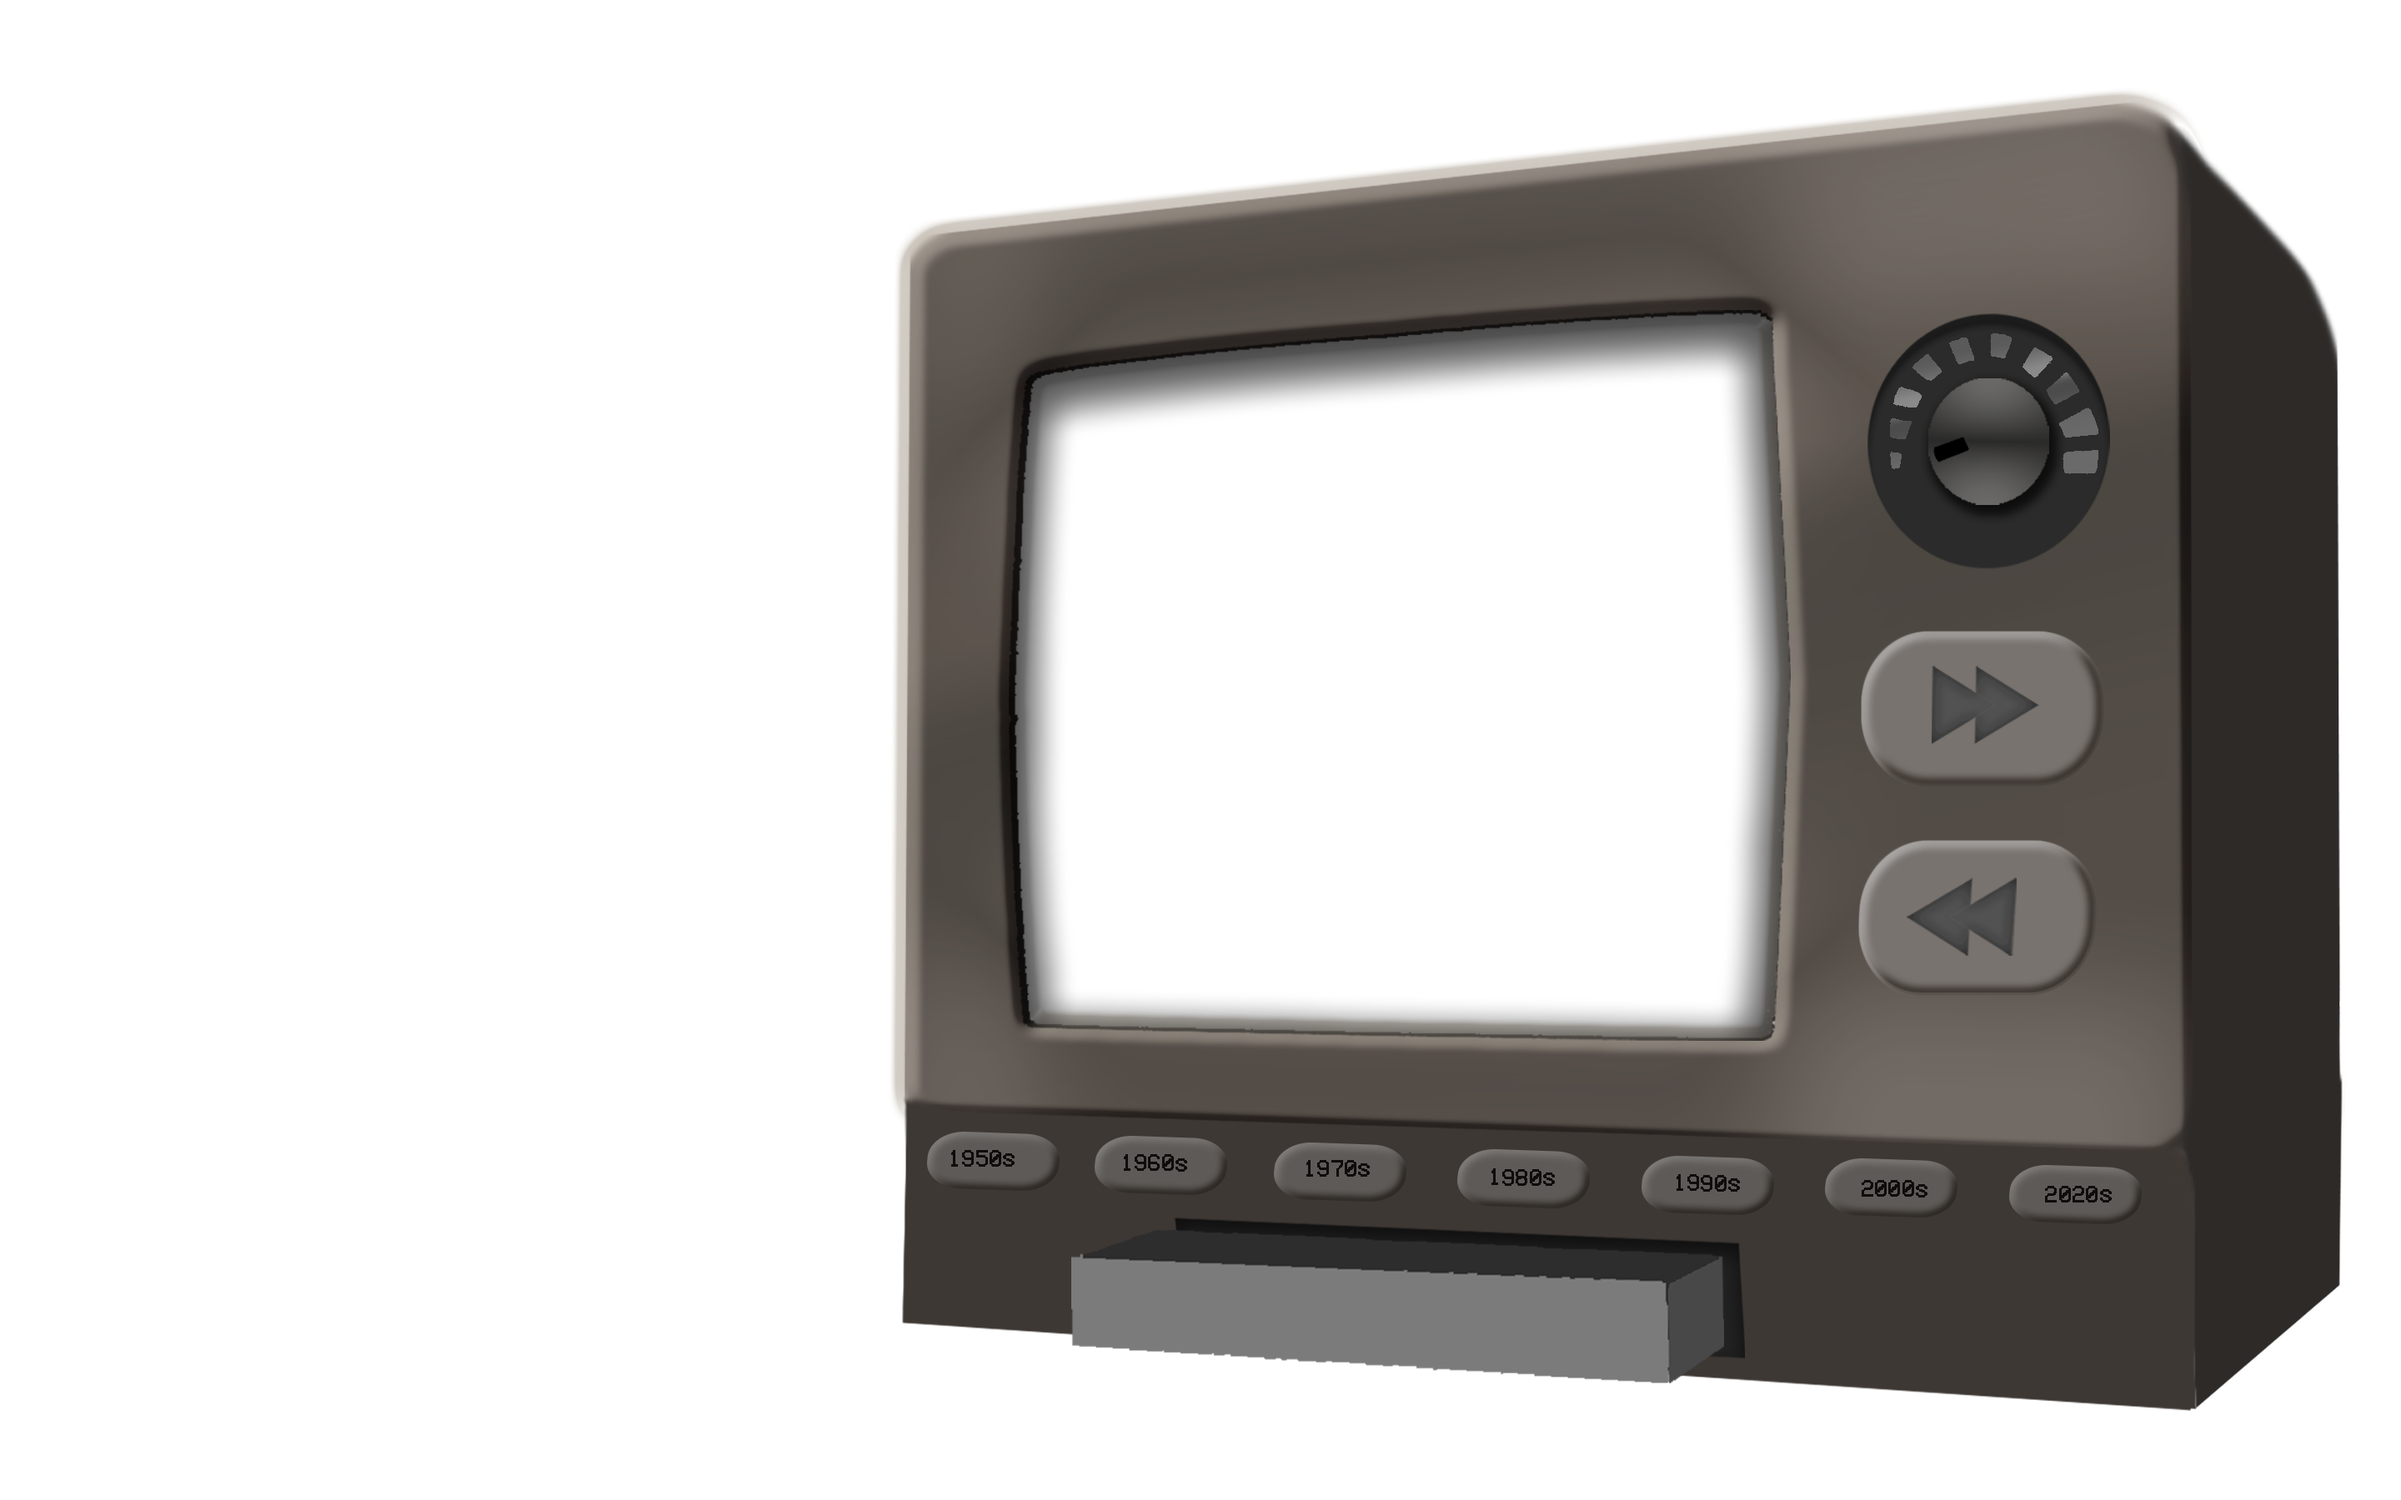
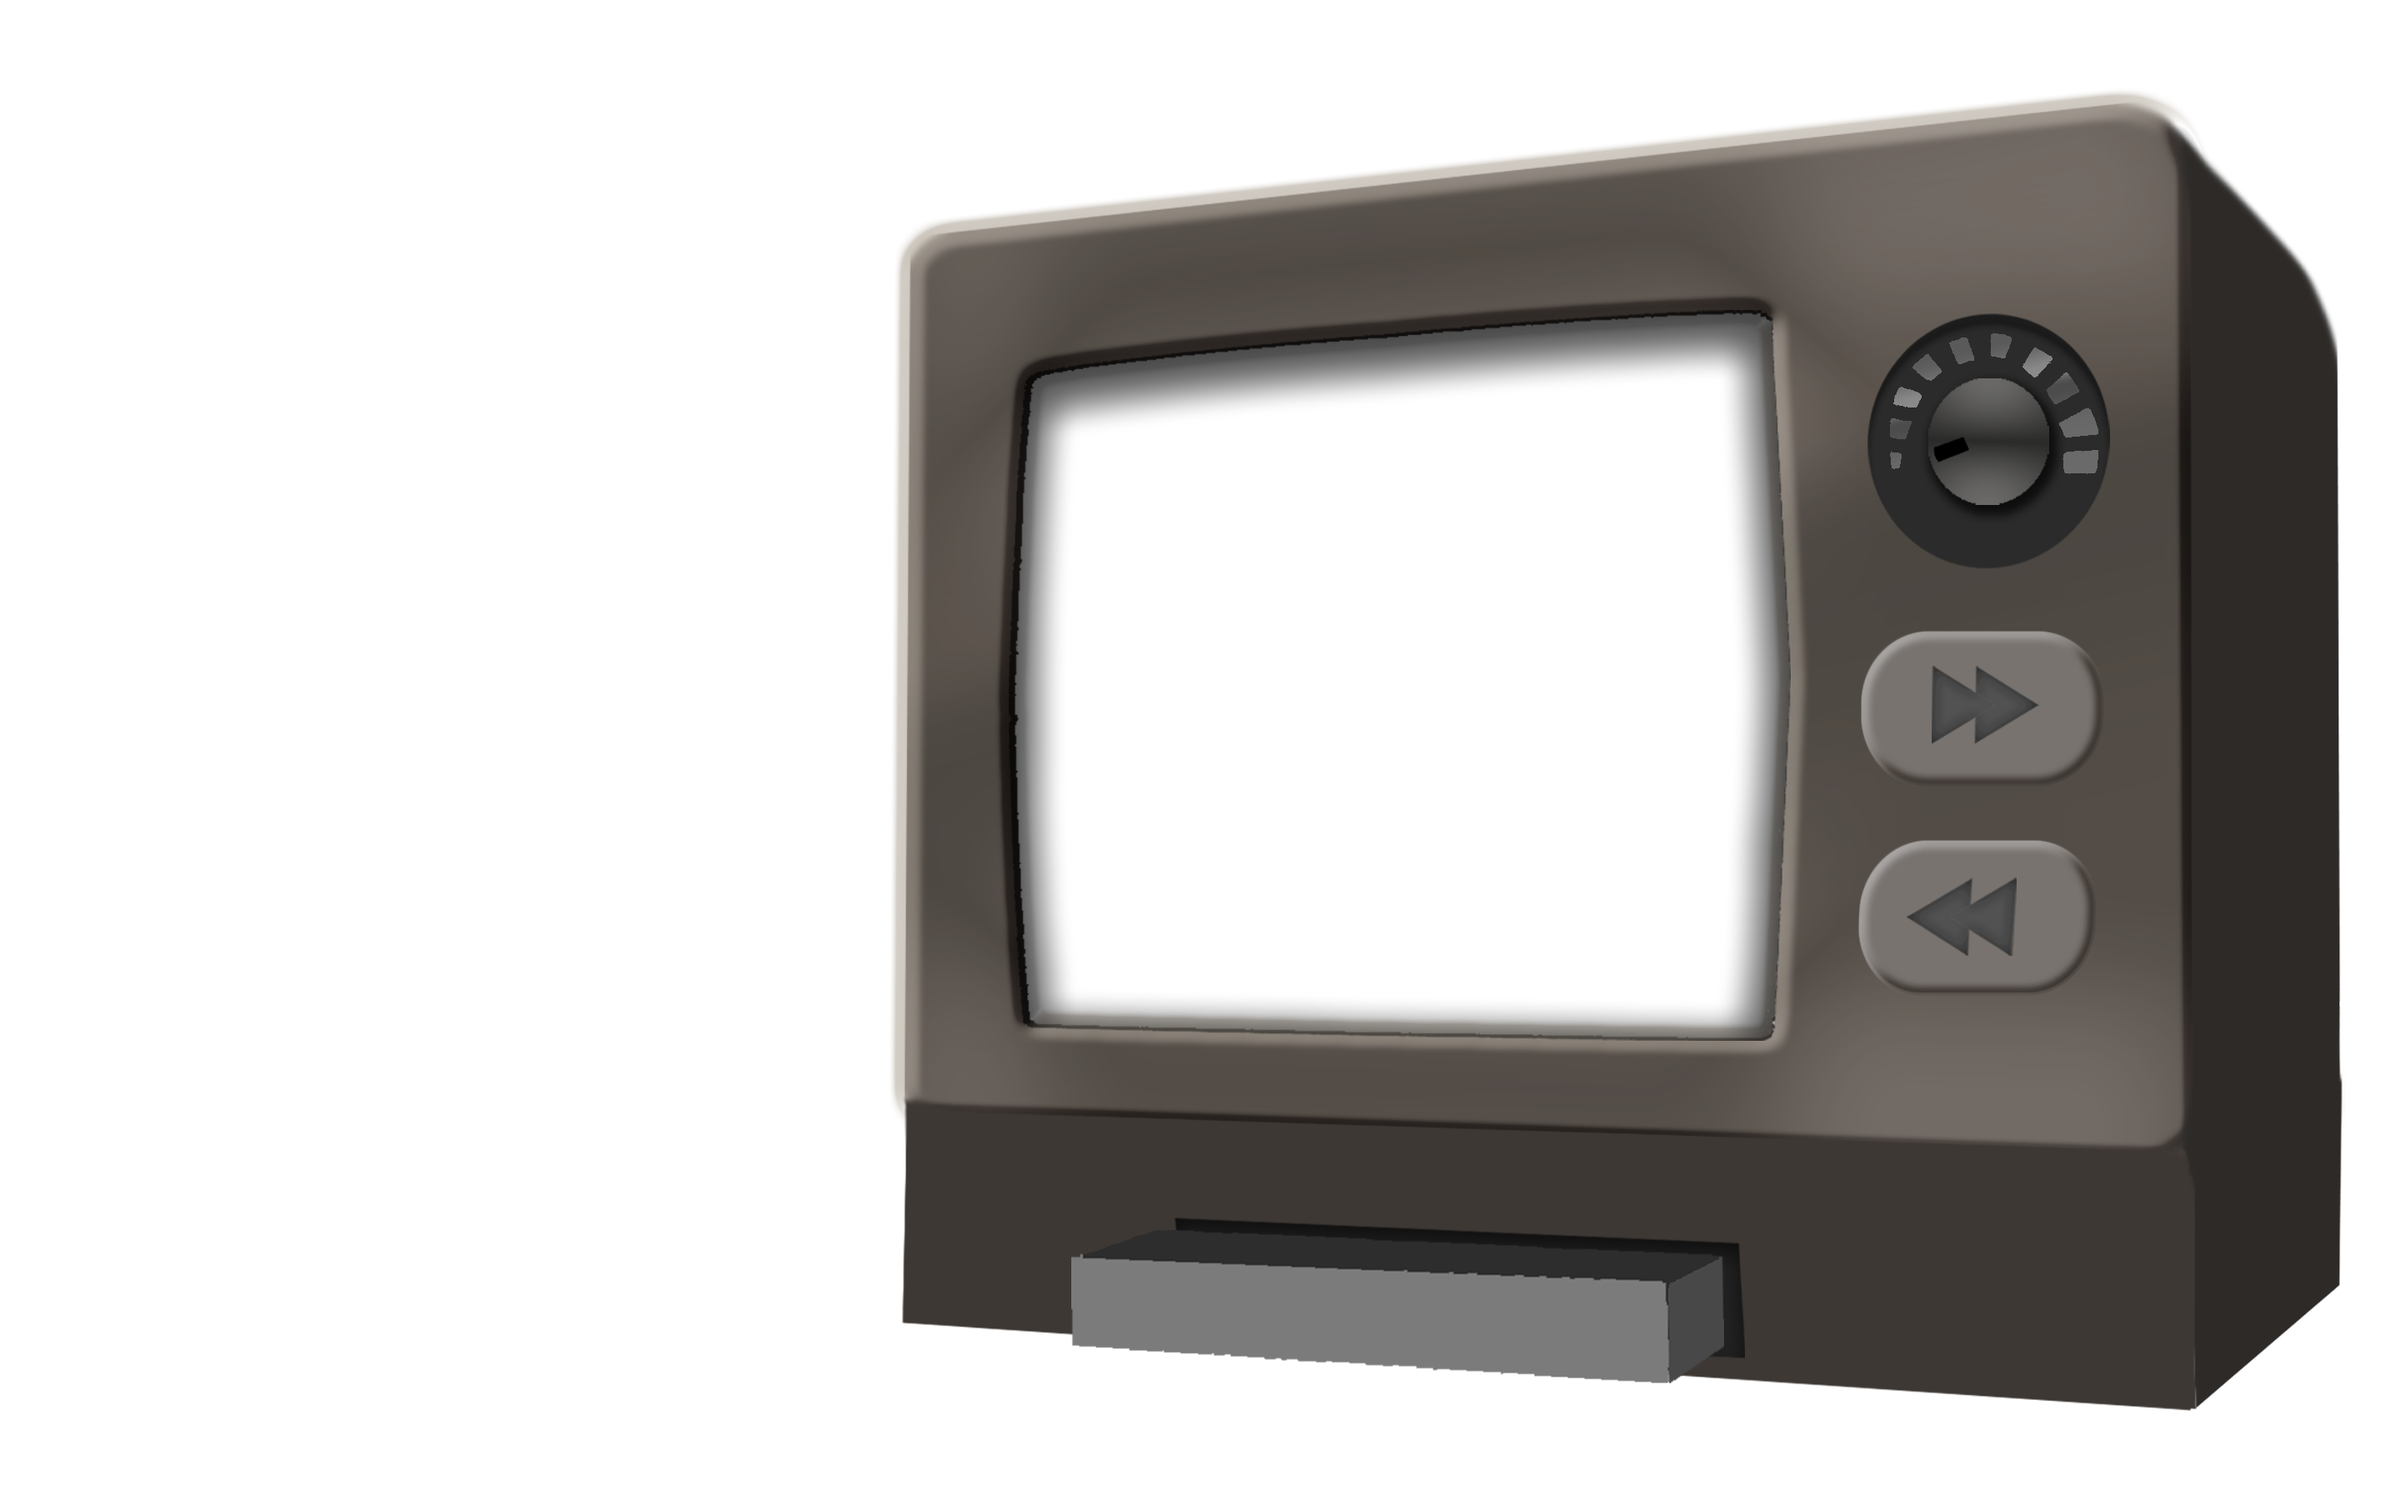
df

Changed region(s): [[0.375, 0.7467, 0.9062, 0.8089]]

diff --git a/project_3/wandavision.js b/project_3/wandavision.js
@@ -9,15 +9,32 @@ fetch('https://api.airtable.com/v0/appGeugv5v8JANFJa/wandavision', {
     .then(data => {
         console.log(data);
         const wandavision = document.querySelector('.wandavision');
-        
+ 
         data.records.sort((a, b) => a.fields.order - b.fields.order)
-        .slice(0, 1)
-        .forEach(item => {
-            console.log(item);
-            wandavision.innerHTML += `
-        <video loop muted autoplay class="episode-50s" id="ep-50s" src="${item.fields.episode_videos[0].url}"></video>
+            .slice(0, 1)
+            .forEach(item => {
+                console.log(item);
+                wandavision.innerHTML += `
+        <video loop muted autoplay class="episode-screen" id="ep-50s" src="${item.fields.episode_videos[0].url}"></video>
             `;
-});
+            }
+        ,data.records.sort((a, b) => a.fields.order - b.fields.order)
+            .slice(1, 2)
+            .forEach(item => {
+                console.log(item);
+                wandavision.innerHTML += `
+        <video loop muted autoplay class="episode-screen" id="ep-60s" src="${item.fields.episode_videos[0].url}"></video>
+            `;
+            }
+        ,data.records.sort((a, b) => a.fields.order - b.fields.order)
+            .slice(2, 3)
+            .forEach(item => {
+                console.log(item);
+                wandavision.innerHTML += `
+        <video loop muted autoplay class="episode-screen" id="ep-70s" src="${item.fields.episode_videos[0].url}"></video>
+            `;
+            }
+        )));
     });
 
 // function episodes() {
@@ -42,6 +59,8 @@ function episodes() {
     episodes.style.filter = 'brightness(130%)';
     var fifties = document.getElementById('ep-50s');
     fifties.style.visibility = 'visible';
+    var sixties = document.getElementById('ep-60s');
+    sixties.style.visibility = 'visible';
 }
 
 // onmouseover
@@ -57,6 +76,8 @@ function episode() {
         episodes.style.filter = 'brightness(100%)';
     var fifties = document.getElementById('ep-50s');
     fifties.style.visibility = 'hidden';
+    var sixties = document.getElementById('ep-60s');
+    sixties.style.visibility = 'hidden';
 }
 
 function characters() {

diff --git a/project_3/wandavision.css b/project_3/wandavision.css
@@ -33,14 +33,14 @@ body {
     width: 88%;
     left: 8%;
     top: 90px;
-        z-index: 1;
+    z-index: 1;
 }
 
 .screen {
-    position: relative;
+    position: absolute;
     width: 88%;
     left: 8%;
-    top: -700px;
+    bottom: 65px;
     z-index: 0;
 }
 
@@ -269,7 +269,7 @@ h3 {
 
 }
 
-.episode-50s {
+.episode-screen {
     width: 36%;
     position: absolute;
     left: 570px;
@@ -278,4 +278,60 @@ h3 {
     top: 132px;
     visibility: hidden;
     opacity: 80%;
+}
+
+.buttonfifties {
+    position: relative;
+    z-index: 2;
+    left: 600px;
+    top: 505px;
+    width: 5%;
+}
+
+.buttonsixties {
+    position: relative;
+    z-index: 2;
+    left: 600px;
+    top: 508px;
+    width: 5%;
+}
+
+.buttonseventies {
+    position: relative;
+    z-index: 2;
+    left: 600px;
+    top: 511px;
+    width: 5%;
+}
+
+.buttoneighties {
+    position: relative;
+    z-index: 2;
+    left: 600px;
+    top: 513px;
+    width: 5%;
+}
+
+.buttonnineties {
+    position: relative;
+    z-index: 2;
+    left: 600px;
+    top: 516px;
+    width: 5%;
+}
+
+.buttonnoughties {
+    position: relative;
+    z-index: 2;
+    left: 600px;
+    top: 518px;
+    width: 5%;
+}
+
+.buttonpresent {
+    position: relative;
+    z-index: 2;
+    left: 600px;
+    top: 520px;
+    width: 5%;
 }

diff --git a/project_3/wandavision.html b/project_3/wandavision.html
@@ -33,6 +33,14 @@
         <img src="illustrations/tapes/easter-eggs.png" class="tape easter-eggs">
         <img src="illustrations/tapes/inspiration.png" class="tape inspiration">
 </div>
-<!-- <video loop muted autoplay src="episodes/episodes-50s.mp4" id="ep-50s"></video> -->
+<div class="buttons">
+            <img src="illustrations/buttons/50s.png" class="buttonfifties" onclick="buttonfifties()" id="buttonfifties">
+            <img src="illustrations/buttons/60s.png" class="buttonsixties" onclick="buttonsixties()" id="buttonsixties">
+            <img src="illustrations/buttons/70s.png" class="buttonseventies" onclick="buttonseventies()" id="buttonseventies">
+            <img src="illustrations/buttons/80s.png" class="buttoneighties" onclick="buttoneighties()" id="buttoneighties">
+            <img src="illustrations/buttons/90s.png" class="buttonnineties" onclick="buttonnineties()" id="buttonnineties">
+            <img src="illustrations/buttons/00s.png" class="buttonnoughties" onclick="buttonnoughties()" id="buttonnoughties">
+            <img src="illustrations/buttons/present.png" class="buttonpresent" onclick="buttonpresent()" id="buttonpresent">
+</div>
 </body>
 </html>
